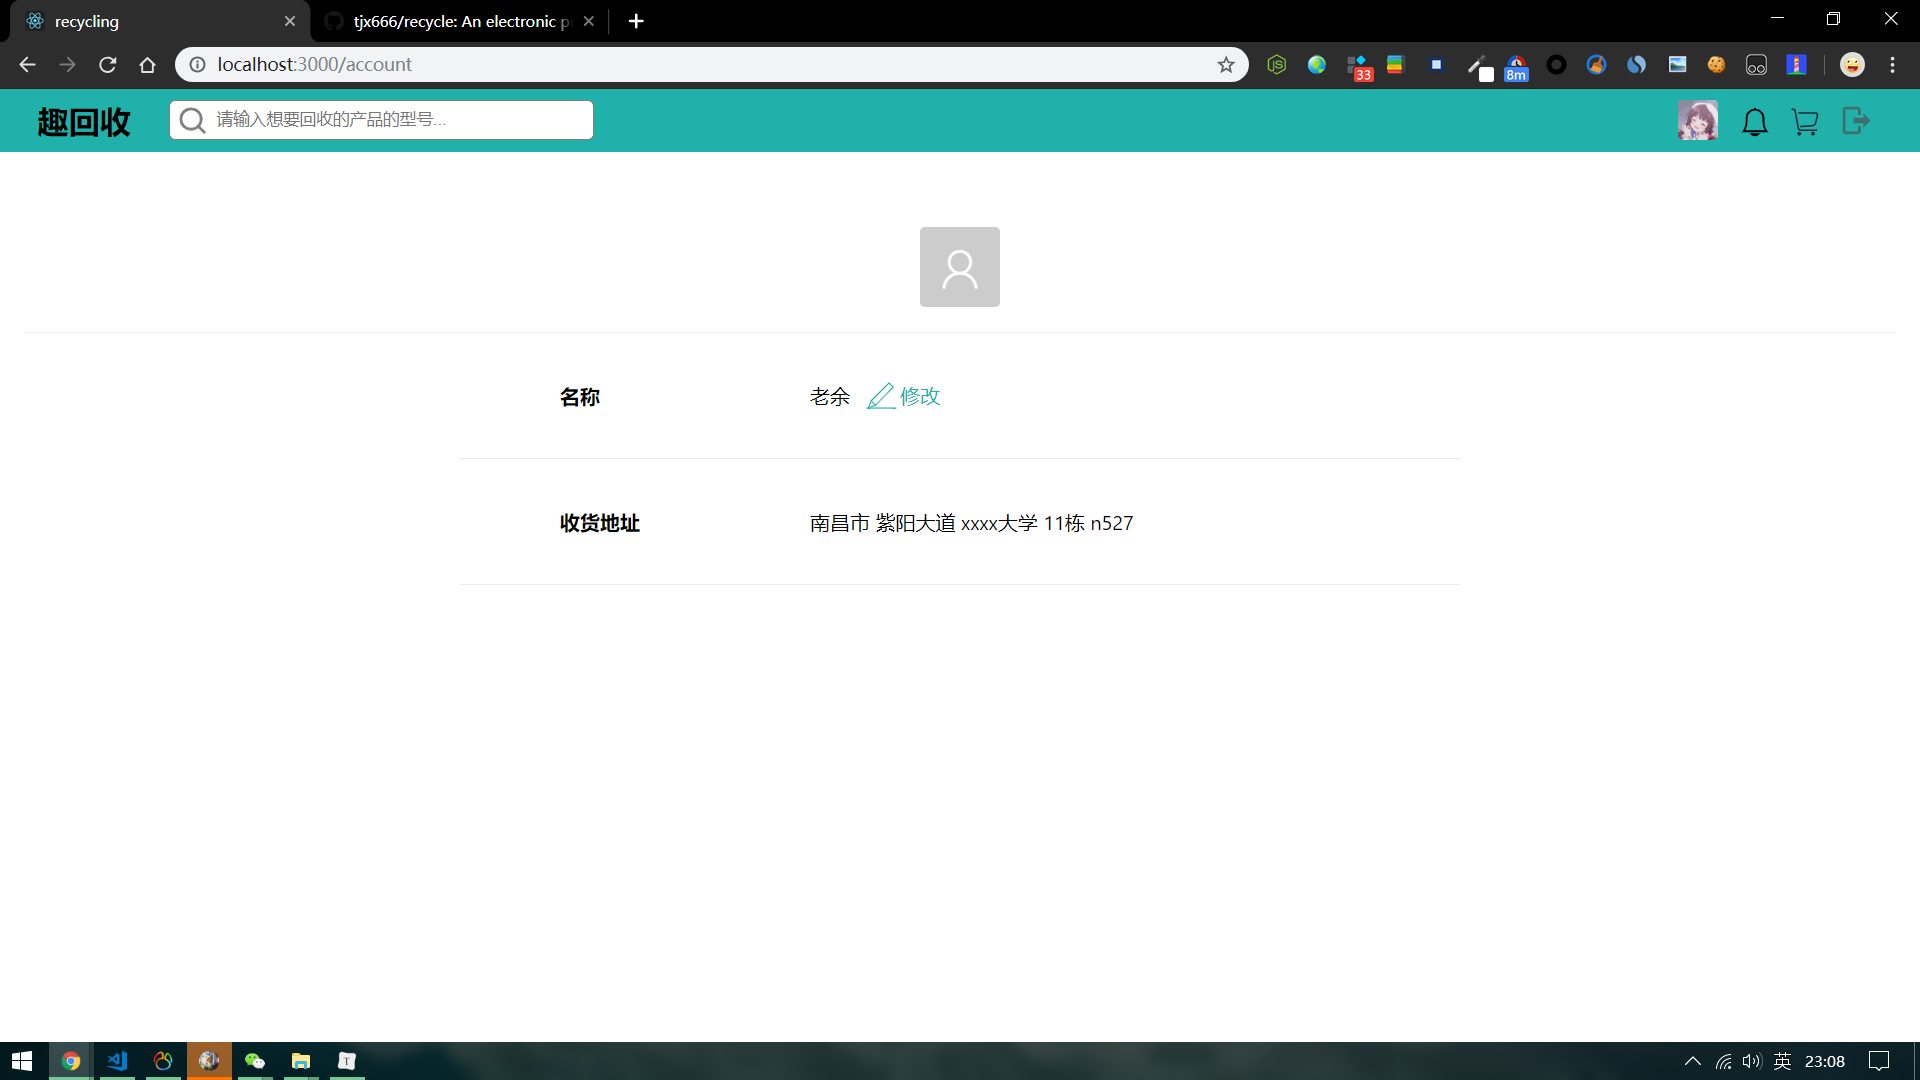
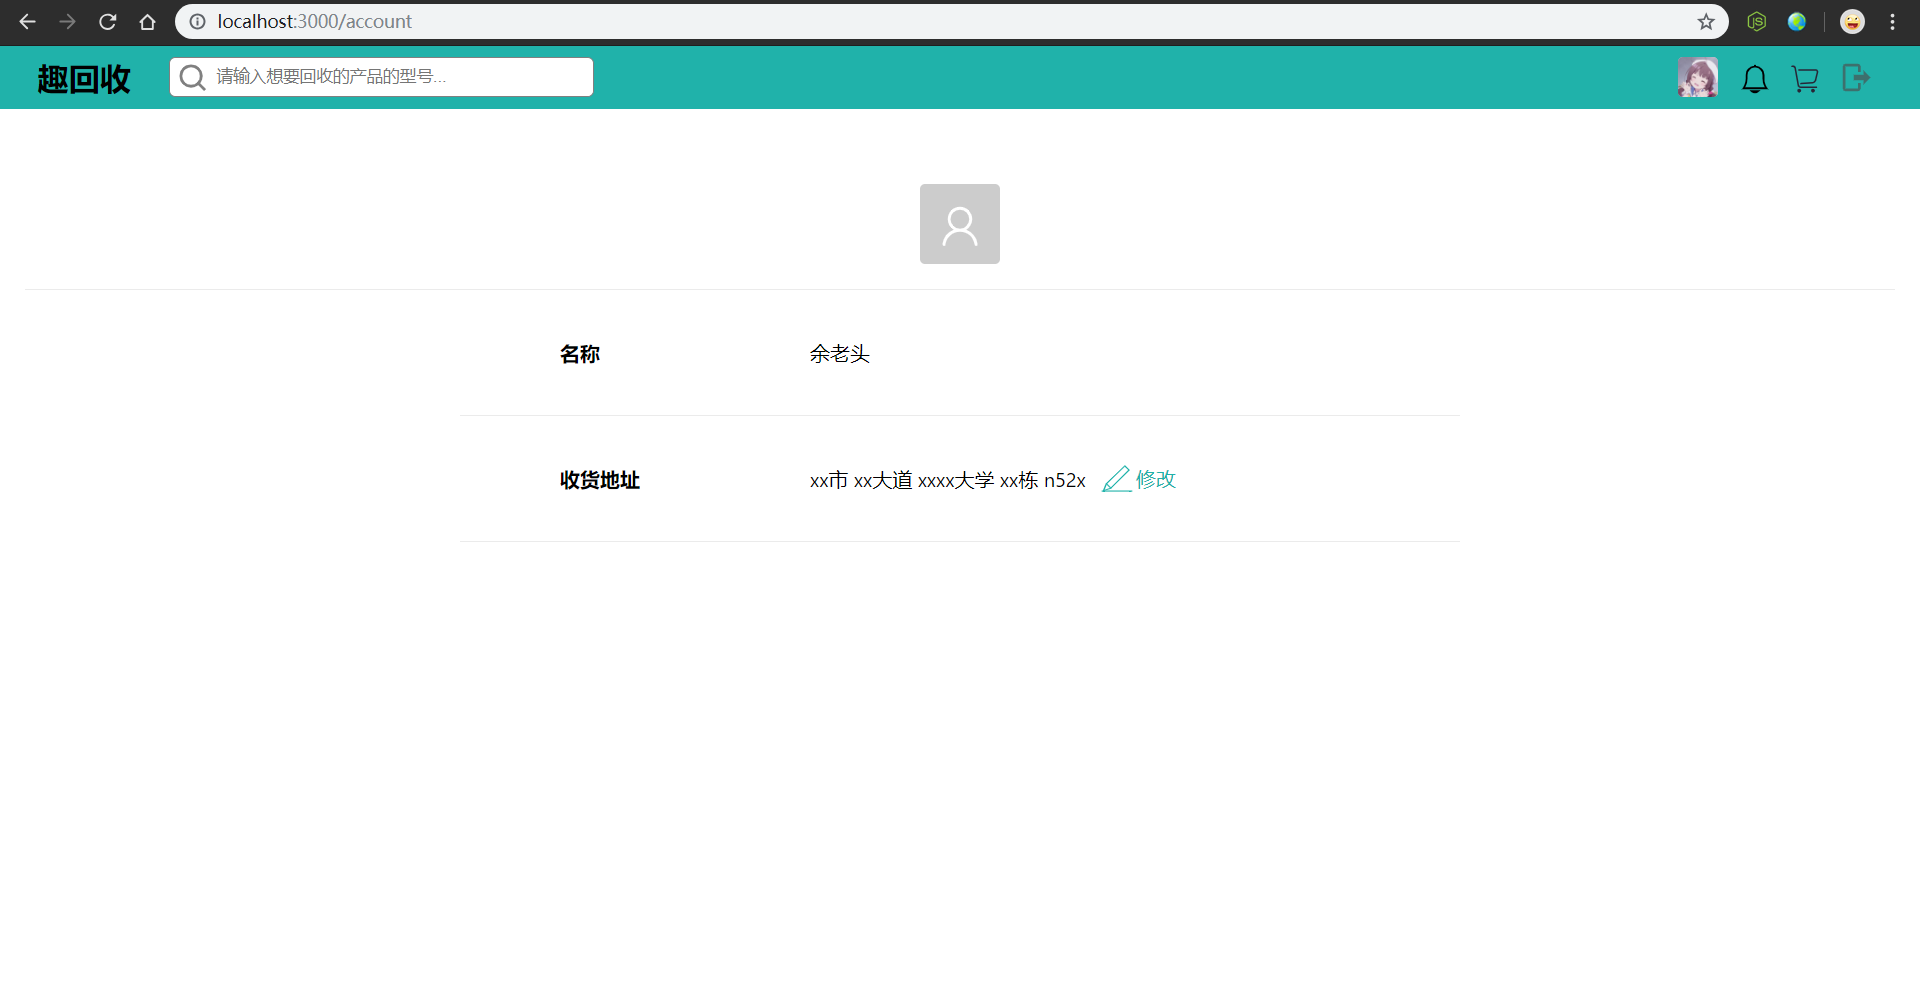
Doc: replace the selfCenter screenshot

diff --git a/src/components/profileList/ProfileList.jsx b/src/components/profileList/ProfileList.jsx
@@ -29,6 +29,7 @@ const ProfileItem = (props) => {
         <div className="profile-item">
             <span className="item-name">{name}</span>
             <form action="">
+                {/* 这里就是根据是否有 render 这个 props 来返回不同的内容 */}
                 {render && render(props) || <SimpleProfileItemContent value={value}/>}
             </form>
         </div>

diff --git a/src/api/userApi.js b/src/api/userApi.js
@@ -1,6 +1,6 @@
 export const getUserInfo = () => {
     return {
-        name: '老余',
-        shippingAddress: '南昌市 紫阳大道 xxxx大学 11栋 n527' 
+        name: '余老头',
+        shippingAddress: 'xx市 xx大道 xxxx大学 xx栋 n52x' 
     }
 }

diff --git a/src/App.js b/src/App.js
@@ -20,7 +20,7 @@ function App() {
             draggable
             pauseOnHover
         />
-        <Header isLogin={false} />
+        <Header isLogin={true} />
         <main>
             <Switch>
                 <Route exact path="/" component={Home}/>
